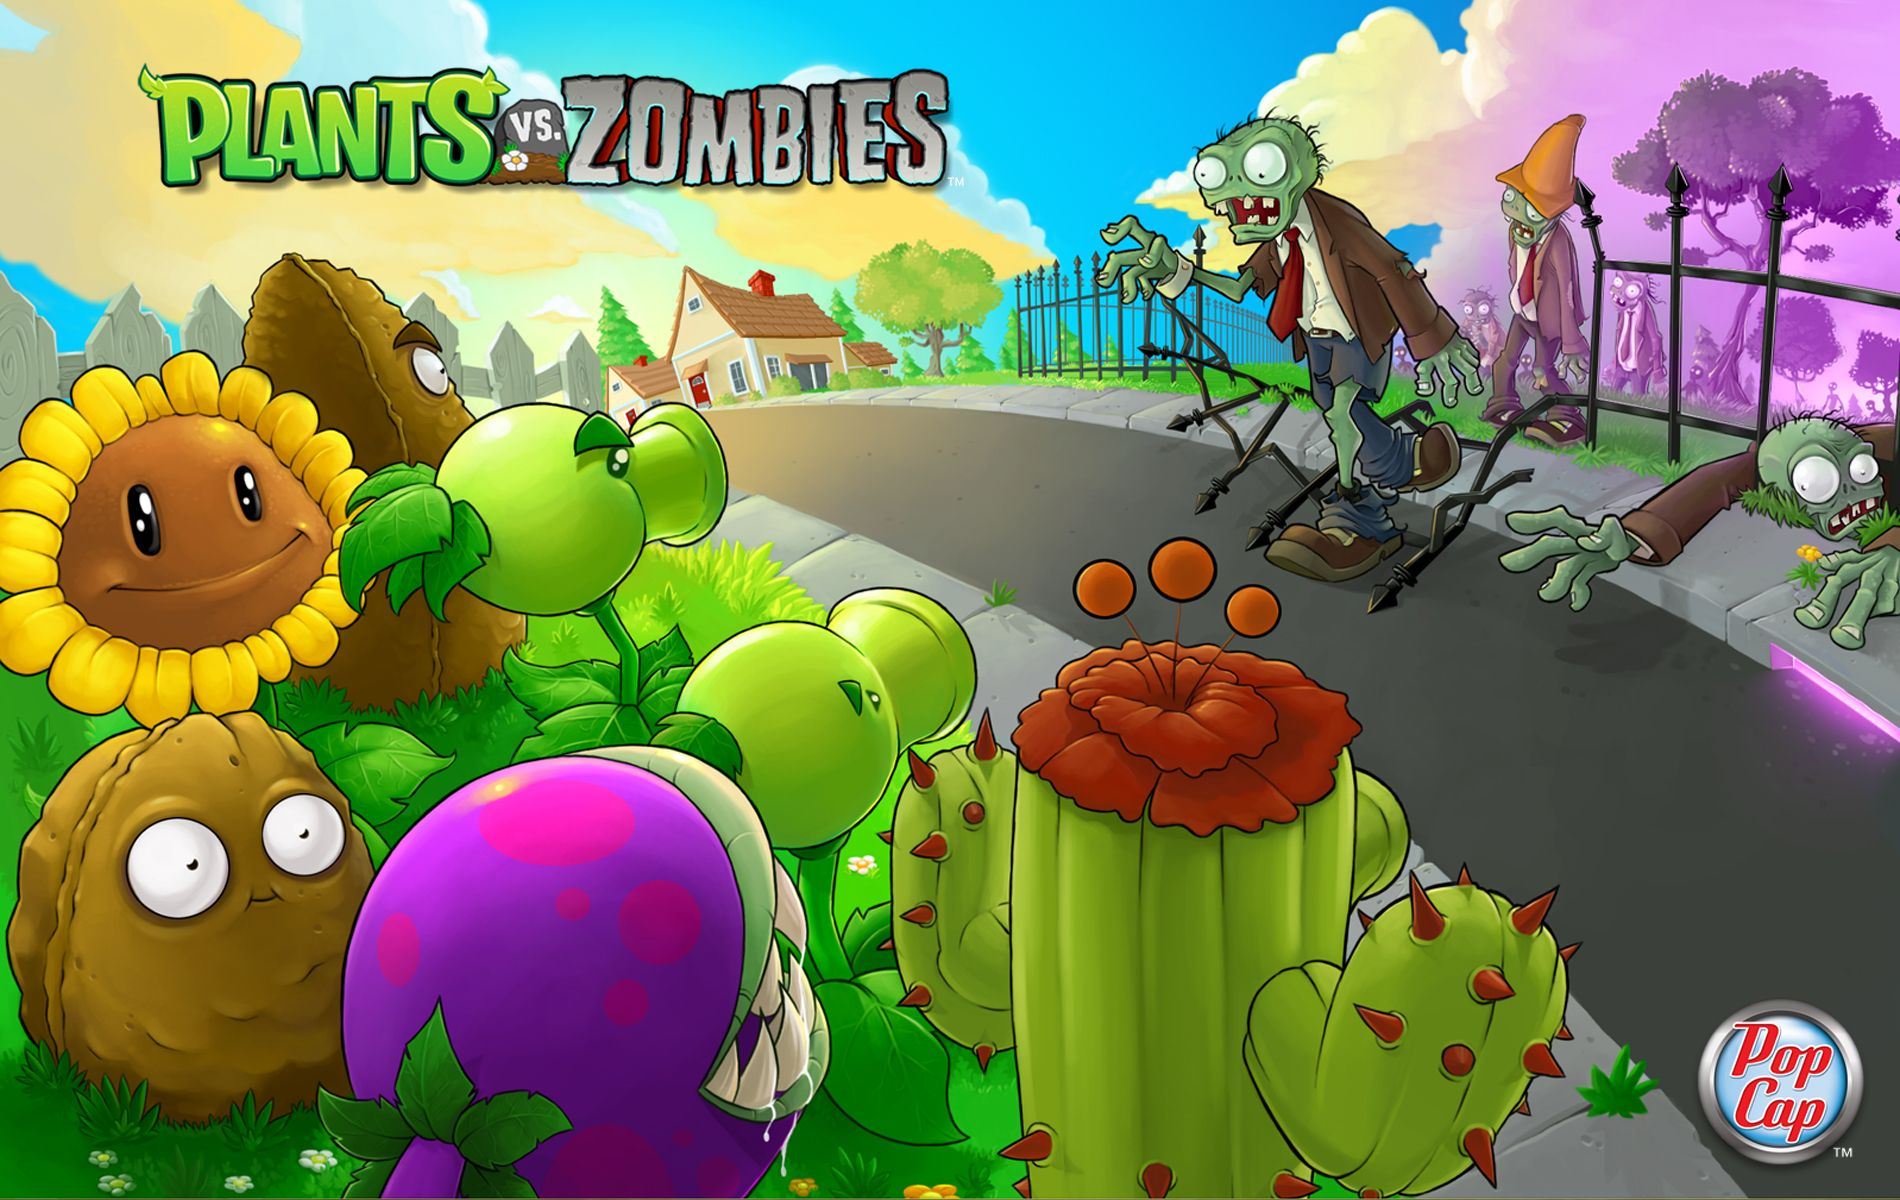
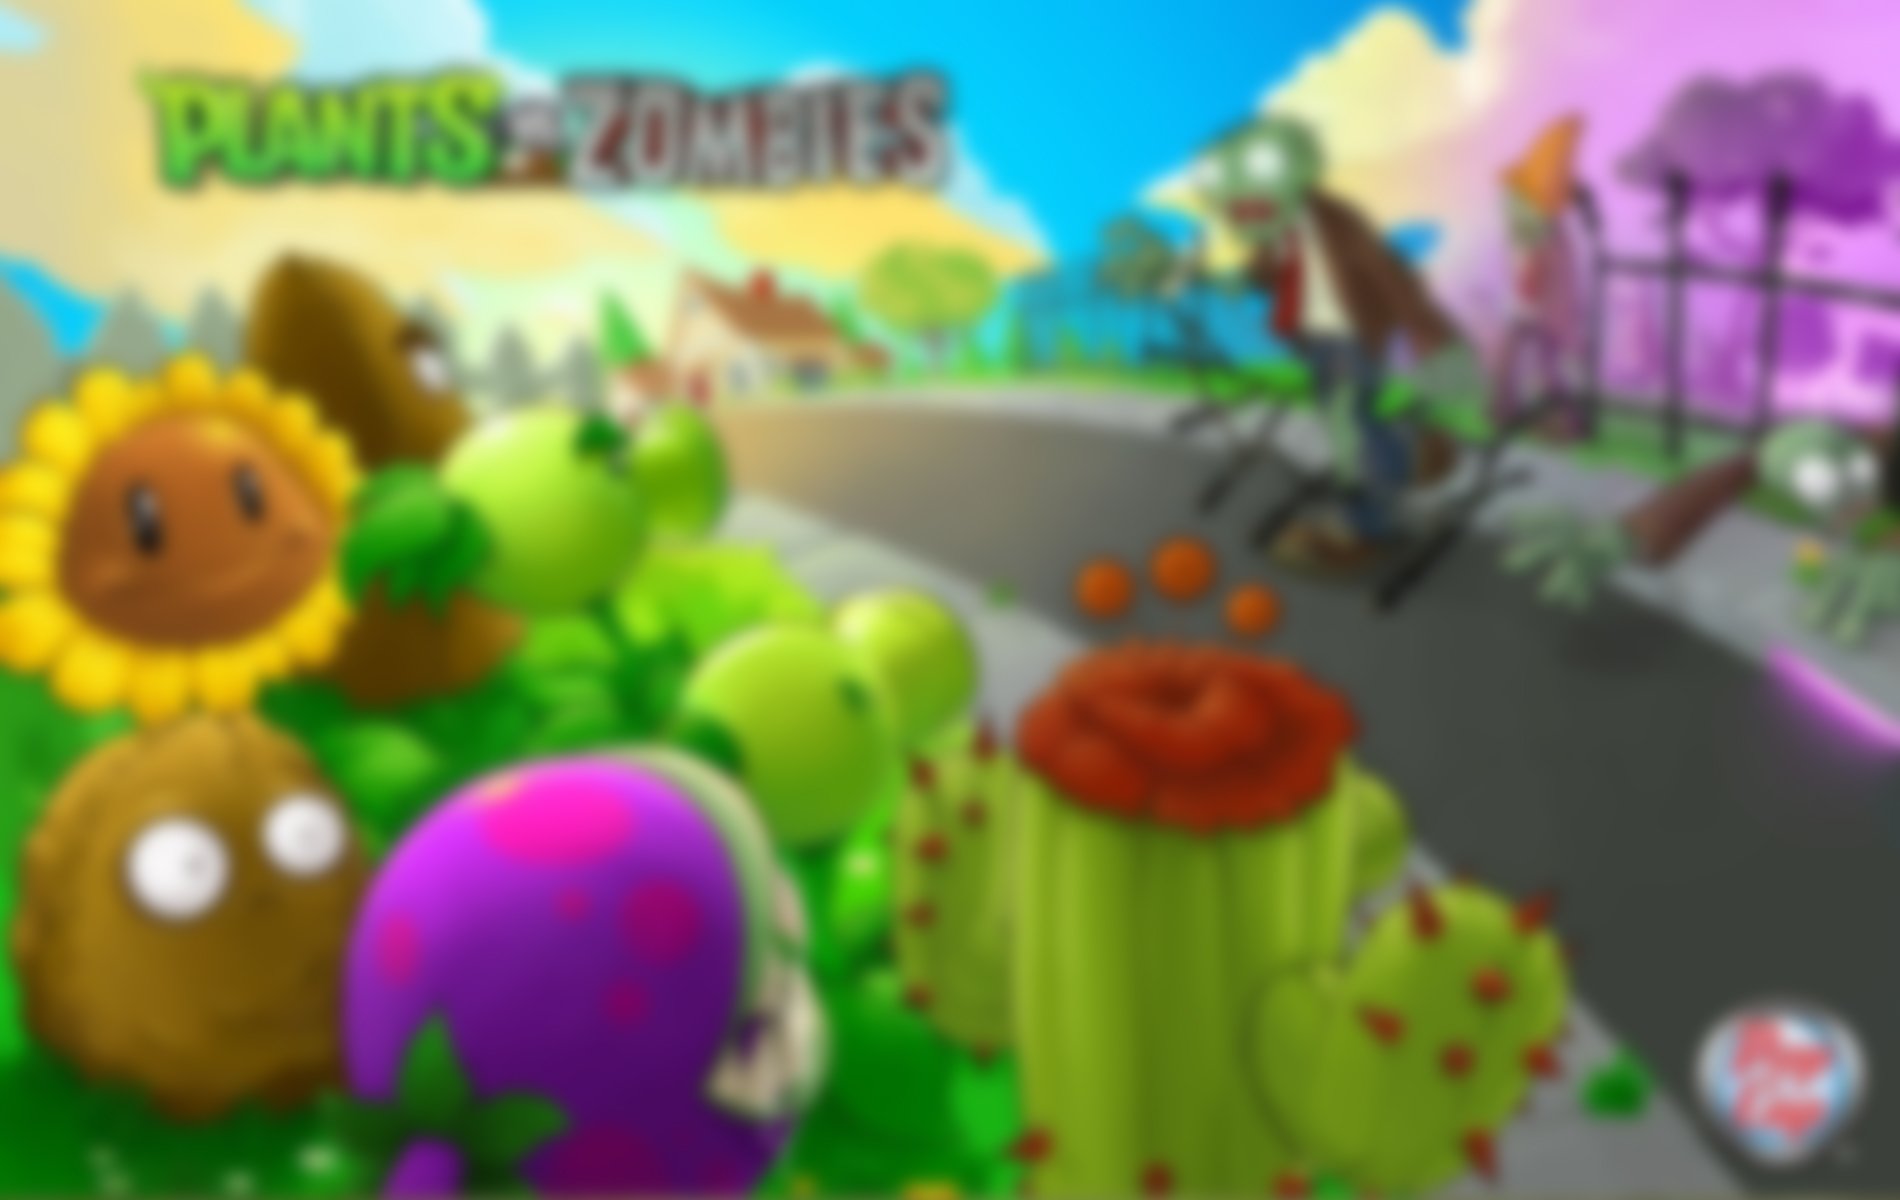
主页

Changed region(s): [[0.0, 0.0, 1.0, 1.0], [0.59, 0.9558, 0.6211, 1.0], [0.0, 0.0, 0.0311, 0.0617]]

diff --git a/index.html b/index.html
@@ -1,6 +1,18 @@
 
 <!DOCTYPE html>
 <html>
+    <!DOCTYPE html>
+    <html>
+    <head>
+    <meta http-equiv="Content-Type" content="text/html; charset=utf-8" />
+    <title>背景图片自适应填充整个页面</title>
+    </head>
+    <style>
+    body{background: url(img/bj.jpg) no-repeat;background-size:cover;}
+    </style>
+    <body>
+    </body>
+    </html>
 <head>
 <meta charset="UTF-8" />
 <title>植物大战僵尸beta版下载</title>
